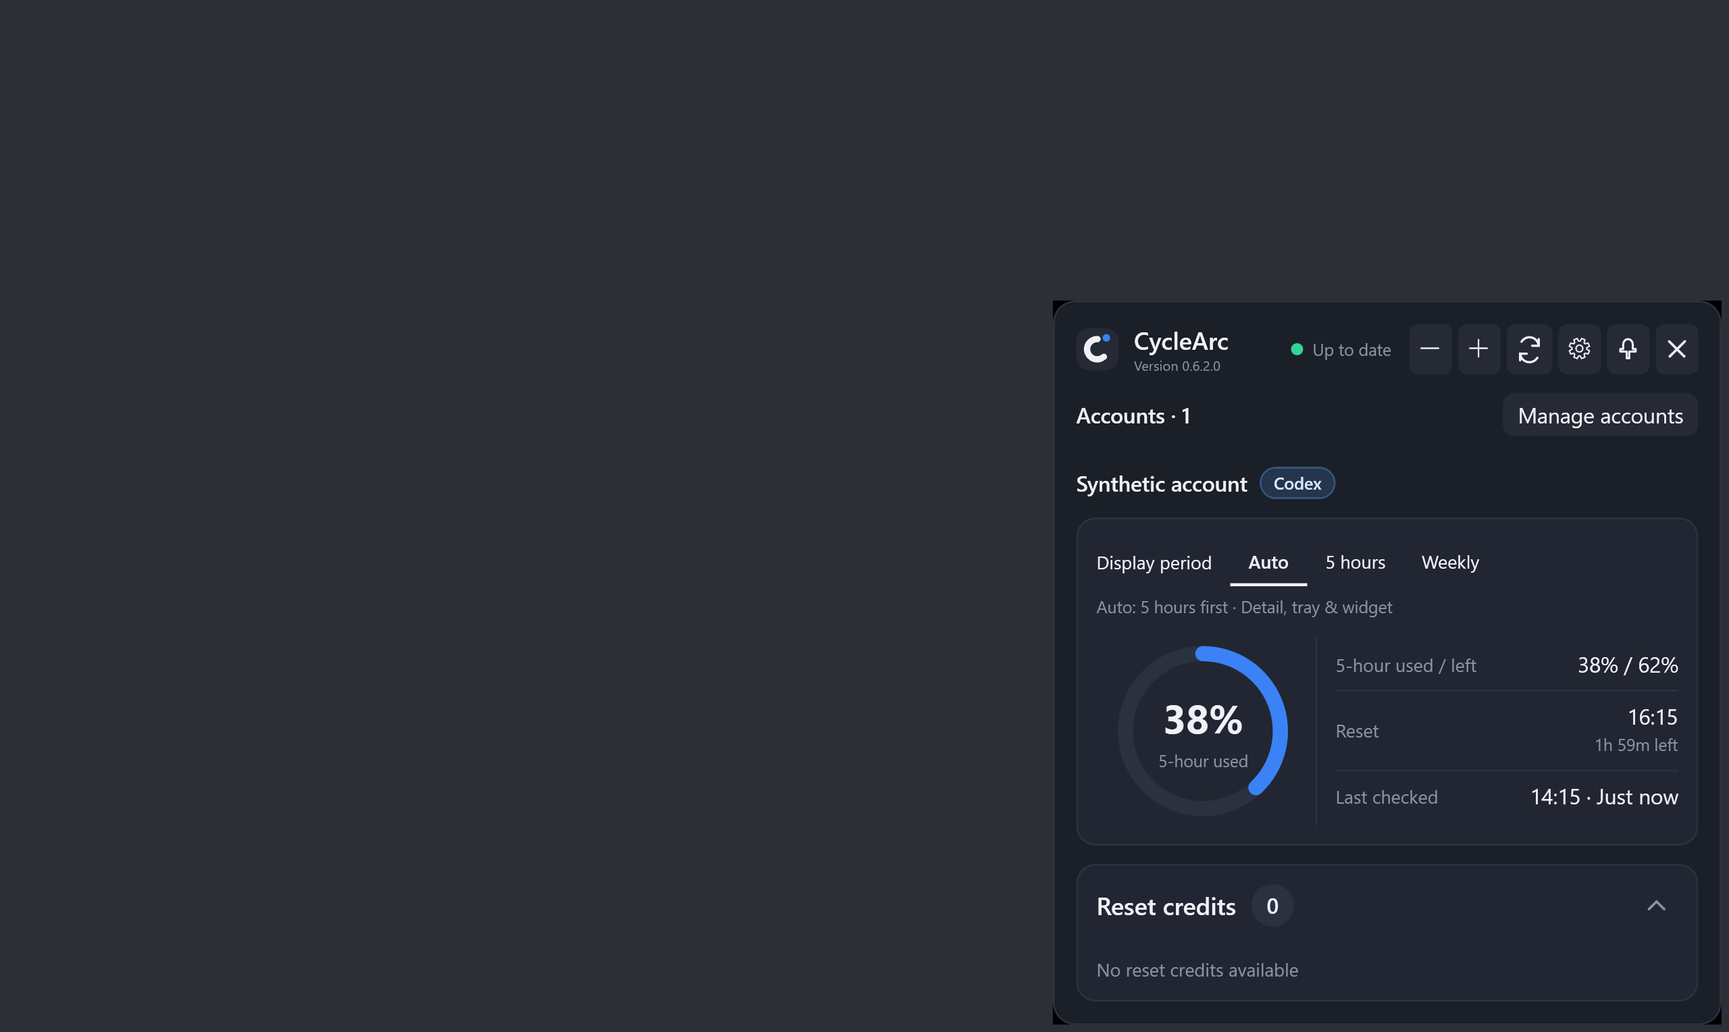
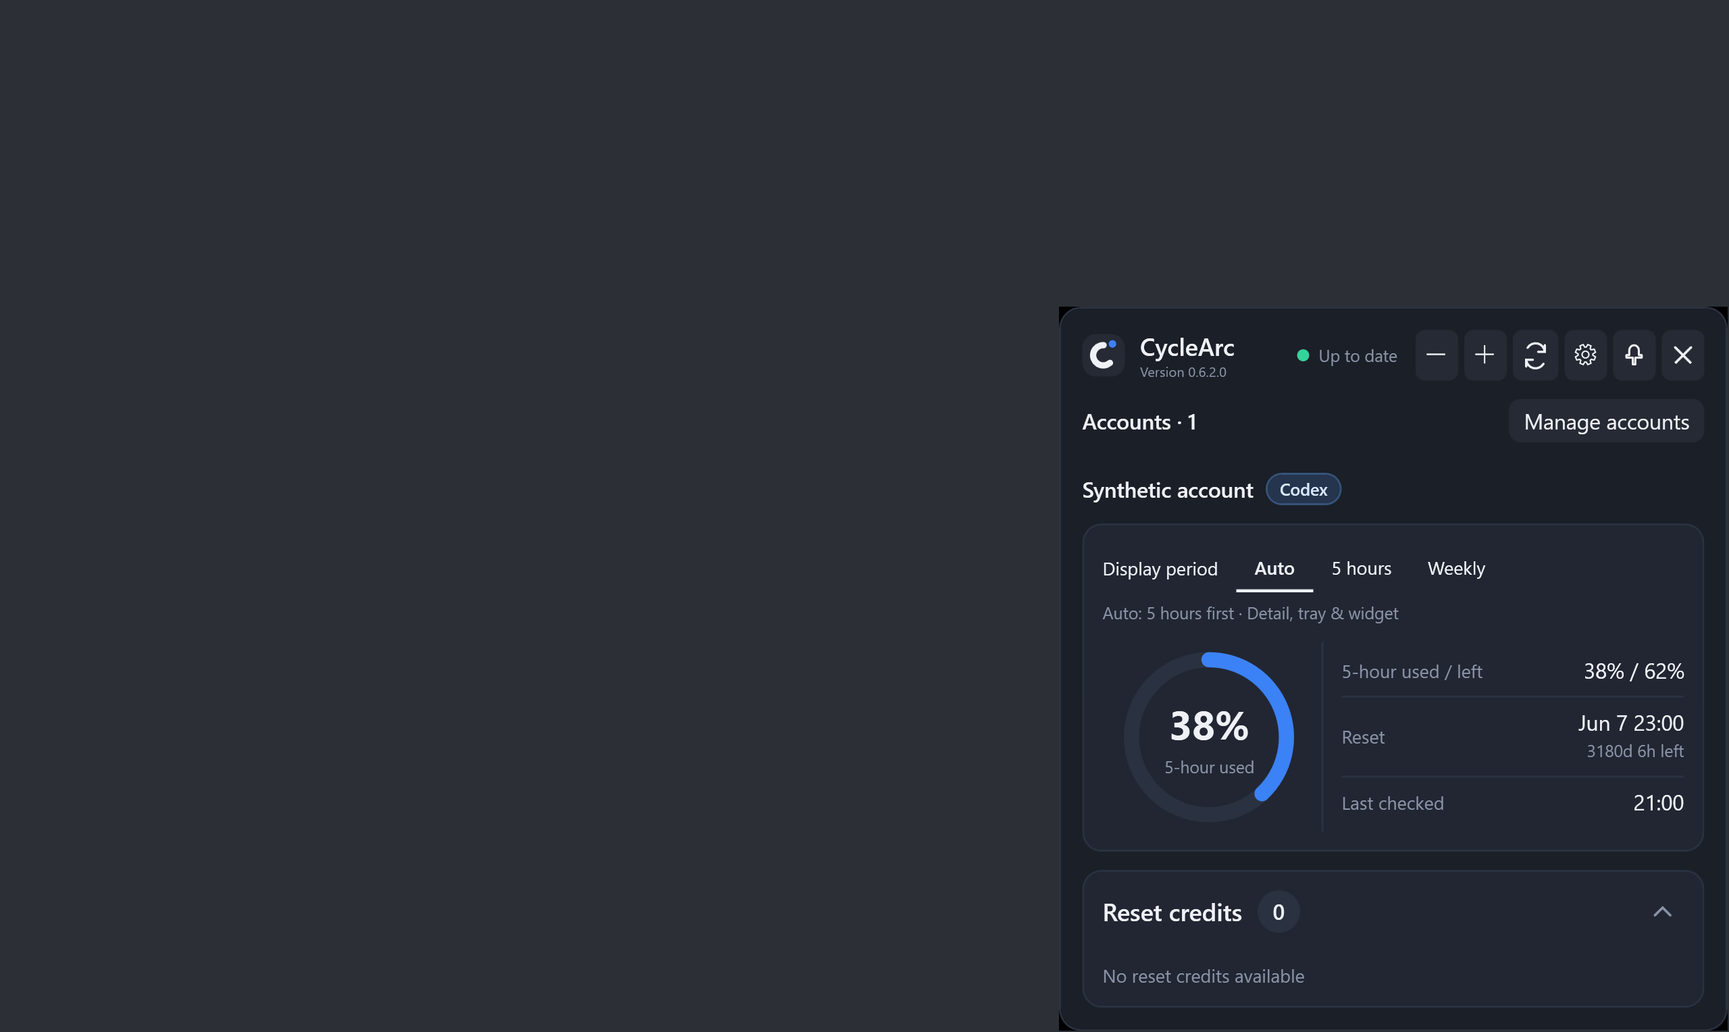
Reduce snapped window inset to 2 DIP

diff --git a/tests/CycleArc.Tests/WindowEdgeSnapTests.cs b/tests/CycleArc.Tests/WindowEdgeSnapTests.cs
@@ -26,21 +26,25 @@ public class WindowEdgeSnapTests
             WindowEdgeSnap.Detect(right, bottom, width, height, Work));
     }
 
-    [Fact]
-    public void ThresholdIsInclusiveAndOutsideThresholdIsFree()
+    [Theory]
+    [InlineData(11.999, true)]
+    [InlineData(12, true)]
+    [InlineData(12.001, false)]
+    public void ThresholdIsInclusiveAndOutsideThresholdIsFree(double distance, bool attaches)
     {
-        var width = 320d;
-        var height = 180d;
-        var target = Work.X + WindowEdgeSnap.MarginDip;
-
-        Assert.Equal(HorizontalEdgeAnchor.Left,
-            WindowEdgeSnap.Detect(target + WindowEdgeSnap.ThresholdDip, 400, width, height, Work).Horizontal);
-        Assert.Equal(HorizontalEdgeAnchor.None,
-            WindowEdgeSnap.Detect(target + WindowEdgeSnap.ThresholdDip + 0.0001, 400, width, height, Work).Horizontal);
-        Assert.Equal(VerticalEdgeAnchor.Top,
-            WindowEdgeSnap.Detect(400, Work.Y + WindowEdgeSnap.MarginDip - WindowEdgeSnap.ThresholdDip, width, height, Work).Vertical);
-        Assert.Equal(VerticalEdgeAnchor.None,
-            WindowEdgeSnap.Detect(400, Work.Y + WindowEdgeSnap.MarginDip - WindowEdgeSnap.ThresholdDip - 0.0001, width, height, Work).Vertical);
+        // Independent policy expectations: 2-DIP targets and a 12-DIP threshold.
+        Assert.Equal(12, WindowEdgeSnap.ThresholdDip);
+        foreach (var direction in new[] { -1, 1 })
+        {
+            Assert.Equal(attaches ? HorizontalEdgeAnchor.Left : HorizontalEdgeAnchor.None,
+                WindowEdgeSnap.Detect(Work.X + 2 + direction * distance, 400, 320, 180, Work).Horizontal);
+            Assert.Equal(attaches ? HorizontalEdgeAnchor.Right : HorizontalEdgeAnchor.None,
+                WindowEdgeSnap.Detect(Work.Right - 2 - 320 + direction * distance, 400, 320, 180, Work).Horizontal);
+            Assert.Equal(attaches ? VerticalEdgeAnchor.Top : VerticalEdgeAnchor.None,
+                WindowEdgeSnap.Detect(0, Work.Y + 2 + direction * distance, 320, 180, Work).Vertical);
+            Assert.Equal(attaches ? VerticalEdgeAnchor.Bottom : VerticalEdgeAnchor.None,
+                WindowEdgeSnap.Detect(0, Work.Bottom - 2 - 180 + direction * distance, 320, 180, Work).Vertical);
+        }
     }
 
     [Fact]
@@ -59,7 +63,7 @@ public class WindowEdgeSnapTests
             WindowEdgeSnap.Detect(400, bottomTarget + 1, width, height, Work).Vertical);
 
         // The two candidate targets can both be inside the threshold only when the
-        // window nearly fills the work area, leaving the two 8 DIP margins between
+        // window nearly fills the work area, leaving the two 2 DIP margins between
         // them. Use that boundary shape to exercise the deterministic tie rule.
         var tieWidth = Work.Width - (int)(WindowEdgeSnap.MarginDip * 2);
         var tieHeight = Work.Height - (int)(WindowEdgeSnap.MarginDip * 2);
@@ -163,8 +167,8 @@ public class WindowEdgeSnapTests
         var work = new ScreenRect(100, 100, 20, 20);
         var placed = WindowEdgeSnap.Place(double.NaN, double.PositiveInfinity, 10, 10, work, default);
 
-        Assert.Equal(work.X + WindowEdgeSnap.MarginDip, placed.Left);
-        Assert.Equal(work.Y + WindowEdgeSnap.MarginDip, placed.Top);
+        Assert.Equal(work.X + 8, placed.Left);
+        Assert.Equal(work.Y + 8, placed.Top);
         Assert.True(double.IsFinite(placed.Left));
         Assert.True(double.IsFinite(placed.Top));
     }
@@ -181,6 +185,27 @@ public class WindowEdgeSnapTests
         Assert.True(placed.Top + 180 <= Work.Bottom - WindowEdgeSnap.MarginDip);
     }
 
+    [Fact]
+    public void SavedEightDipAttachmentRestoresAtTwoDipButFreePositionDoesNotMove()
+    {
+        var oldPosition = (Left: Work.Right - 8d - 320, Top: Work.Bottom - 8d - 180);
+        var anchors = new WindowEdgeAnchors(HorizontalEdgeAnchor.Right, VerticalEdgeAnchor.Bottom);
+        Assert.Equal((Work.Right - 2d - 320, Work.Bottom - 2d - 180),
+            WindowEdgeSnap.Place(oldPosition.Left, oldPosition.Top, 320, 180, Work, anchors));
+        Assert.Equal(oldPosition,
+            WindowEdgeSnap.Place(oldPosition.Left, oldPosition.Top, 320, 180, Work, default));
+    }
+
+    [Fact]
+    public void OversizeAndInvalidUnattachedPositionsKeepTheExistingEightDipRecovery()
+    {
+        var work = new ScreenRect(0, 0, 800, 600);
+        var anchors = new WindowEdgeAnchors(HorizontalEdgeAnchor.Right, VerticalEdgeAnchor.Bottom);
+        Assert.Equal((8d, 8d), WindowEdgeSnap.Place(-100, -100, 900, 700, work, anchors));
+        Assert.Equal((8d, 8d), WindowEdgeSnap.Place(double.NaN, double.NaN, 900, 700, work, default));
+        Assert.Equal((592d, 392d), WindowEdgeSnap.Place(900, 700, 200, 200, work, default));
+    }
+
     [Theory]
     [InlineData(-1080, 48, 1080, 1872)] // portrait, top taskbar
     [InlineData(-1032, 0, 1032, 1920)] // portrait, left taskbar
@@ -194,8 +219,8 @@ public class WindowEdgeSnapTests
         {
             var anchors = new WindowEdgeAnchors(horizontal, vertical);
             var placed = WindowEdgeSnap.Place(x + 200, y + 200, 320, 280, work, anchors);
-            Assert.Equal(horizontal == HorizontalEdgeAnchor.Left ? x + 8 : work.Right - 8 - 320, placed.Left);
-            Assert.Equal(vertical == VerticalEdgeAnchor.Top ? y + 8 : work.Bottom - 8 - 280, placed.Top);
+            Assert.Equal(horizontal == HorizontalEdgeAnchor.Left ? x + 2 : work.Right - 2 - 320, placed.Left);
+            Assert.Equal(vertical == VerticalEdgeAnchor.Top ? y + 2 : work.Bottom - 2 - 280, placed.Top);
             Assert.Equal(anchors, WindowEdgeSnap.Detect(placed.Left, placed.Top, 320, 280, work));
         }
     }
@@ -212,15 +237,15 @@ public class WindowEdgeSnapTests
         {
             var width = 320 * zoom;
             var height = 280 * zoom;
-            var physicalLeft = (work.Right - 8 - width - 11.99) * osScale;
-            var physicalTop = (work.Bottom - 8 - height) * osScale;
+            var physicalLeft = (work.Right - 2 - width - 11.99) * osScale;
+            var physicalTop = (work.Bottom - 2 - height) * osScale;
             var anchors = WindowEdgeSnap.Detect(physicalLeft / osScale, physicalTop / osScale,
                 width, height, work);
             Assert.Equal(new WindowEdgeAnchors(HorizontalEdgeAnchor.Right, VerticalEdgeAnchor.Bottom), anchors);
             var placed = WindowEdgeSnap.Place(physicalLeft / osScale, physicalTop / osScale,
                 width, height, work, anchors);
-            Assert.Equal(8 * osScale, (work.Right - placed.Left - width) * osScale, 6);
-            Assert.Equal(8 * osScale, (work.Bottom - placed.Top - height) * osScale, 6);
+            Assert.Equal(2 * osScale, (work.Right - placed.Left - width) * osScale, 6);
+            Assert.Equal(2 * osScale, (work.Bottom - placed.Top - height) * osScale, 6);
         }
     }
 }

diff --git a/tests/CycleArc.UiSmoke/NativeEdgeSnapChecks.cs b/tests/CycleArc.UiSmoke/NativeEdgeSnapChecks.cs
@@ -22,7 +22,7 @@ internal static class NativeEdgeSnapChecks
         Directory.CreateDirectory(directory);
         UiText.SetLanguage(UiLanguage.English);
         typeof(App).GetMethod("ApplyTheme", BindingFlags.Static | BindingFlags.NonPublic)!.Invoke(null, [AppTheme.Dark]);
-        var now = DateTimeOffset.Now;
+        var now = new DateTimeOffset(2035, 6, 7, 12, 0, 0, TimeSpan.Zero);
         var snapshot = new CodexQuotaSnapshot(CodexQuotaStatus.Available, "pro", now, now,
             null, null, 0, [new("five", 38, 300, now.AddHours(2), CodexWindowKind.FiveHour)], null);
         var account = WidgetFixture.Synthetic("edge-native", "Synthetic account", snapshot);
@@ -74,8 +74,9 @@ internal static class NativeEdgeSnapChecks
                     var dpi = VisualTreeHelper.GetDpi(window);
                     var initial = Bounds(window);
                     var start = HeaderPoint(window);
-                    var targetLeft = work.Right - initial.Width - (8 + 6) * dpi.DpiScaleX;
-                    var targetTop = work.Bottom - initial.Height - (8 + 6) * dpi.DpiScaleY;
+                    var targetLeft = work.Right - initial.Width - (2 + 6) * dpi.DpiScaleX;
+                    var targetTop = work.Bottom - initial.Height - (2 + 6) * dpi.DpiScaleY;
+                    Console.WriteLine($"Native drop {kind}: initial={initial.Left},{initial.Top},{initial.Width},{initial.Height}; pointer={start}; target={targetLeft},{targetTop}; DPI={dpi.DpiScaleX}/{dpi.DpiScaleY}");
                     EdgeSnapNativeInput.Drag(window, start,
                         new Point(start.X + targetLeft - initial.Left, start.Y + targetTop - initial.Top));
                     AssertAttached(window, work, "native release");
@@ -106,7 +107,7 @@ internal static class NativeEdgeSnapChecks
                     Check(Bounds(window).Left < before.Left, kind + " native Shift drag did not move.");
                     if (window is FlyoutWindow popup)
                         Check(!popup.Pinned && !popup.Topmost, "Snapping changed flyout pin/topmost state.");
-                    lines.Add($"PASS {kind} {screen.DeviceName}: physical work={work}, OS DPI={dpi.DpiScaleX * 100:0}/{dpi.DpiScaleY * 100:0}%; native drag/release, header click, 100/150/80% header-button zoom, passive size/content update without focus theft, pixel/anchor recreation, Shift detach. No monitor geometry was injected.");
+                    lines.Add($"PASS {kind} {screen.DeviceName}: physical work={work}, OS DPI={dpi.DpiScaleX * 100:0}/{dpi.DpiScaleY * 100:0}%; native drag/release, header click, 100/150/80% header-button zoom, passive size/content update without focus theft, legacy 8-DIP pixel/anchor recreation at 2 DIP, Shift detach. No monitor geometry was injected.");
                 }
                 finally { window.Close(); }
             }
@@ -123,11 +124,18 @@ internal static class NativeEdgeSnapChecks
             Status = CodexQuotaStatus.Stale, TechnicalDetail = "Synthetic refresh failure for height verification."
         } };
         var anchors = Anchors(original);
+        // Recreate an already attached window whose saved coordinates still have the old
+        // 8-DIP inset. The current policy must place it 6 DIP closer, on the same monitor.
+        var dpi = VisualTreeHelper.GetDpi(original);
+        var oldPixelLeft = bounds.Left - (int)Math.Round(6 * dpi.DpiScaleX);
+        var oldPixelTop = bounds.Top - (int)Math.Round(6 * dpi.DpiScaleY);
         var settings = new AppSettings
         {
-            WidgetLeft = original.Left, WidgetTop = original.Top, WidgetPixelLeft = bounds.Left, WidgetPixelTop = bounds.Top,
+            WidgetLeft = original.Left - 6, WidgetTop = original.Top - 6,
+            WidgetPixelLeft = oldPixelLeft, WidgetPixelTop = oldPixelTop,
             WidgetHorizontalAnchor = anchors.Horizontal, WidgetVerticalAnchor = anchors.Vertical, WidgetZoomPercent = Zoom(original),
-            FlyoutLeft = original.Left, FlyoutTop = original.Top, FlyoutPixelLeft = bounds.Left, FlyoutPixelTop = bounds.Top,
+            FlyoutLeft = original.Left - 6, FlyoutTop = original.Top - 6,
+            FlyoutPixelLeft = oldPixelLeft, FlyoutPixelTop = oldPixelTop,
             FlyoutHorizontalAnchor = anchors.Horizontal, FlyoutVerticalAnchor = anchors.Vertical, FlyoutZoomPercent = Zoom(original),
             FlyoutPositionConfigured = true
         };
@@ -224,8 +232,8 @@ internal static class NativeEdgeSnapChecks
         var dpi = VisualTreeHelper.GetDpi(window);
         Check(anchors == new WindowEdgeAnchors(HorizontalEdgeAnchor.Right, VerticalEdgeAnchor.Bottom),
             $"{window.GetType().Name} {stage}: expected right/bottom, got {anchors}; bounds={bounds.Left},{bounds.Top},{bounds.Right},{bounds.Bottom}, work={work}.");
-        Check(Math.Abs(work.Right - bounds.Right - 8 * dpi.DpiScaleX) <= 2
-            && Math.Abs(work.Bottom - bounds.Bottom - 8 * dpi.DpiScaleY) <= 2,
+        Check(Math.Abs(work.Right - bounds.Right - 2 * dpi.DpiScaleX) <= 2
+            && Math.Abs(work.Bottom - bounds.Bottom - 2 * dpi.DpiScaleY) <= 2,
             $"{window.GetType().Name} {stage}: wrong native inset; right={work.Right - bounds.Right}, bottom={work.Bottom - bounds.Bottom}, DPI={dpi.DpiScaleX}/{dpi.DpiScaleY}.");
     }
 
@@ -248,6 +256,15 @@ internal static class NativeEdgeSnapChecks
             graphics.DrawImageUnscaled(capture, bounds.Left - work.Left, bounds.Top - work.Top);
         }
         canvas.Save(path, System.Drawing.Imaging.ImageFormat.Png);
+        // Record actual HWND geometry so before/after captures can verify that only
+        // the outside position changed, with equal window sizes at each app zoom.
+        var dpi = VisualTreeHelper.GetDpi(window);
+        File.WriteAllText(Path.ChangeExtension(path, ".json"), System.Text.Json.JsonSerializer.Serialize(new
+        {
+            bounds.Left, bounds.Top, bounds.Width, bounds.Height,
+            WorkLeft = work.Left, WorkTop = work.Top, WorkRight = work.Right, WorkBottom = work.Bottom,
+            dpi.DpiScaleX, dpi.DpiScaleY, Zoom = Zoom(window)
+        }));
     }
 
     private static NativeRect Bounds(Window window)

diff --git a/src/CycleArc.Core/Codex/WindowEdgeSnap.cs b/src/CycleArc.Core/Codex/WindowEdgeSnap.cs
@@ -32,8 +32,10 @@ public readonly record struct WindowEdgeAnchors(
 
 public static class WindowEdgeSnap
 {
-    public const double MarginDip = 8;
+    public const double MarginDip = 2;
     public const double ThresholdDip = 12;
+    // Invalid-coordinate recovery retains its existing safety inset, independent of snapping.
+    private const double RecoveryMarginDip = 8;
 
     public static WindowEdgeAnchors Detect(
         double left,
@@ -200,8 +202,8 @@ public static class WindowEdgeSnap
 
     private static double ClampRecoveredAxis(double origin, double size, int workOrigin, int workLength)
     {
-        var min = workOrigin + MarginDip;
-        var max = workOrigin + (double)workLength - size - MarginDip;
+        var min = workOrigin + RecoveryMarginDip;
+        var max = workOrigin + (double)workLength - size - RecoveryMarginDip;
         return max < min ? min : Math.Clamp(FiniteOrZero(origin), min, max);
     }
 

diff --git a/tests/CycleArc.UiSmoke/FlyoutEdgeSnapChecks.cs b/tests/CycleArc.UiSmoke/FlyoutEdgeSnapChecks.cs
@@ -156,8 +156,8 @@ internal static class FlyoutEdgeSnapChecks
                 flyout.UpdateLayout();
                 Pump();
                 var area = CurrentWorkArea(flyout);
-                Require(Math.Abs(flyout.Left + flyout.Width - (area.Right - 8)) <= 1
-                    && Math.Abs(flyout.Top + flyout.ActualHeight - (area.Bottom - 8)) <= 1,
+                Require(Math.Abs(flyout.Left + flyout.Width - (area.Right - 2)) <= 1
+                    && Math.Abs(flyout.Top + flyout.ActualHeight - (area.Bottom - 2)) <= 1,
                     $"Account count {count} changed the attached margin.");
             }
             // Restore the original binding shape for the recreation comparison below.

diff --git a/docs/VALIDATION.md b/docs/VALIDATION.md
@@ -2253,3 +2253,46 @@ remaining-quota count. Subsequent 13:37–13:38 retries failed at page preparati
   portrait monitor, or taskbars placed on other edges. Those geometry cases use injected
   tests. No actual account login/quota/model request, installation/update/removal, remote CI,
   push, version change, tag or release was used for this work.
+
+
+## Screen-edge inset reduced to 2 DIP, 2026-09-22
+
+- Baseline: `c08558d675b3cc5120c6be9bb492930bef5d0783`. `WindowEdgeSnap.MarginDip`
+  is now 2, while `ThresholdDip` remains 12. Both windows already apply anchored placement
+  after generic recovery, so their WPF drag, zoom, sizing and restore code needs no change.
+  Internal layout, fonts, rings, account sizing, settings and persisted anchor formats are unchanged.
+- General recovery remains 8 DIP. In particular, `ClampRecoveredAxis` previously reused the
+  snap constant for non-finite input; it now has a separate private 8-DIP recovery constant.
+  `FlyoutPlacement` safety clamping and `WidgetGridLayout` wrapping clearance are unchanged.
+- Focused tests passed: 38 coordinate/settings/placement tests, then production `--edge-snap`
+  checks for both windows. Literal 2-DIP expectations independently pin every corner and
+  supplied work-area inset; both directions around each edge test 11.999/12/12.001 DIP.
+  Old 8-DIP attached coordinates restore at 2 DIP, while the same unanchored position stays
+  unchanged. Invalid/oversized safety recovery, independent free axes, Shift and disabled
+  snapping retain their previous behavior.
+- Native `--edge-snap-native` passed on actual primary `(0,0,2560,1528)` work area at
+  150% OS DPI and secondary `(-1920,0,1920,1032)` at 100%. It covers native drop/release,
+  header clicks, 80/100/150% app zoom, passive height/status changes without focus theft,
+  and recreation from saved pixel/DIP coordinates still carrying the old 8-DIP inset.
+  Both windows retain their anchors and the new inset; Shift detaches as before.
+- Twelve before/after native capture pairs use identical fixed synthetic snapshots and
+  matching app zoom. Every HWND width/height is unchanged; each moves exactly 6px at
+  100% OS DPI or 9px at 150%. Measured gaps are 1-2px at 100% and 2-4px at 150%, within
+  the existing 1px native-coordinate rounding of the 2/3px targets. After aligning window
+  origins for pixel comparison, only the reset-countdown hour digit differs (the real clock
+  crossed an hour boundary); other internal pixels are identical. Geometry and full-size
+  captures are under `artifacts/snap-margin-2dip`, including `comparison.json`.
+- The first pre-change native attempt did not reach the requested drop coordinates and
+  failed its anchor assertion. A rerun with start/target/DPI diagnostics passed, as did the
+  post-change run. Its cause was not established; no input logic or timeout was changed.
+- Only the four current edge-snap previews were refreshed; two 100% baseline captures were
+  added. The previous 8-DIP validation record above remains historical evidence.
+- Final local gate passed in 5m10s: `pwsh -NoProfile -File ./dev-run.ps1 -NoLaunch
+  -TestResultsDirectory artifacts/snap-margin-2dip/test-results`. All 1,800 unit tests,
+  complete WPF checks (including input/focus, 151 layout, 531 zoom and 180 DPI/layout cases),
+  test-flavour build, single-file publish, built/published receiver checks, installer packaging
+  and isolated portable apply/rollback verification passed. Log: `artifacts/snap-margin-2dip/full-gate.log`.
+- Not run: physical 200% OS DPI, monitor removal/rotation, or taskbar relocation, because
+  the connected desktop remains at its existing 100/150% configuration. Other DPI/work-area
+  cases use injected arithmetic/layout checks. No user installation, account or developer-tool
+  configuration was changed; no push, CI run, merge, version change, tag or release was performed.

diff --git a/docs/images/README.md b/docs/images/README.md
@@ -9,7 +9,8 @@ reset times and credits illustrate the layout; they do not promise specific plan
 | --- | --- |
 | `updates-{en,ko}-{dark,light}.png` | Production update window showing a sample 0.6.0 → 0.6.1 upgrade with the release's widget and installer highlights; download and restart require separate approval |
 | `overview-dark.png`, `overview-light.png`, `settings.png`, `widget.png` | English single-account popup, settings, and the multi-account widget (three synthetic accounts in one row) |
-| `edge-snap-{widget,flyout}-{100,150}.png` | Native synthetic widget/detail windows at 100% and 150% app zoom, attached right/bottom on the 150%-DPI primary monitor; measured work-area surround is neutral and excludes other apps |
+| `edge-snap-{widget,flyout}-{100,150}.png` | Native synthetic widget/detail windows at 100% and 150% app zoom, attached right/bottom at the current 2-DIP inset on the 150%-DPI primary monitor; measured work-area surround is neutral and excludes other apps |
+| `edge-snap-margin-before-{widget,flyout}-100.png` | Historical 8-DIP baseline from `c08558d`, with the same fixed synthetic data and 100% app zoom as the current edge-snap images |
 | `accounts-overview-{en,ko}-{dark,light}.png` | Two ready Codex accounts, with Work / 업무용 selected; the unconnected Claude profile is absent from the cards and counts |
 | `accounts-manage-{en,ko}-{dark,light}.png` | All three registered profiles, including unconnected Research / 실험용 Claude, with connection, nickname and saved-order controls |
 | `claude-waiting-{en,ko}-{dark,light}.png` | Connected Research before its first sample, with unknown shared subscription limits, Awaiting usage and Open usage page |
@@ -54,6 +55,15 @@ drives actual mouse drags and header clicks on the connected monitors. It restor
 uses synthetic accounts, and captures only those HWNDs with `PrintWindow`. Each capture is placed
 at its measured physical coordinates on a neutral work-area background; other applications are
 not captured. This hardware/input check is opt-in and is not part of the unattended gate.
+
+The 2-DIP comparison uses the fixed synthetic timestamp 2035-06-07 in both runs. Reset
+countdowns still use the current clock, so their hour digit can differ between captures.
+The PNG sidecars record HWND size/position, work area, OS DPI and app zoom. Across the
+12 before/after pairs (two windows, two monitors, 80/100/150% zoom), sizes are identical;
+positions move 6 physical pixels at 100% OS DPI and 9 pixels at 150%. Only the reset
+countdown hour digit differs inside the window. Local paired evidence and geometry are
+in `artifacts/snap-margin-2dip/{before,after}` and `comparison.json`; only affected current
+edge-snap previews and the two 100% baseline images are checked in.
 
 The Claude previews use those same profiles with Research connected and selected, so all three
 accounts appear. The waiting view has no quota yet. The server preview supplies synthetic

diff --git a/README.md b/README.md
@@ -250,7 +250,7 @@ Usage comes from the Desktop live profile/usage check when available, then the o
 | Widget header buttons | Resize the widget, refresh, open Settings, or hide it without exiting CycleArc |
 | Right-click the widget | Open its menu, including Close widget |
 
-Drop the widget or detail popup near a screen edge to align it with an 8-DIP inset, keeping its size. Hold **Shift** when releasing a drag to skip snapping for that move. Attached edges keep their inset when you zoom or the content changes. Turn this off in **Settings → General → Snap windows to screen edges**.
+Drop the widget or detail popup near a screen edge to align it with a 2-DIP inset, keeping its size. Hold **Shift** when releasing a drag to skip snapping for that move. Attached edges keep their inset when you zoom or the content changes. Turn this off in **Settings → General → Snap windows to screen edges**.
 
 The zoom shortcuts also support the numeric keypad. The detail card and the widget keep their own size: a shortcut or button changes only the window it was aimed at, and both sizes are saved across restarts. The tray menu resets either one: **Reset size (100%)** for the detail card, **Reset widget size (100%)** for the widget. Widget position can be reset from **Settings → Widget**; saving moves it to the primary screen and recreates its window so a missing widget can recover even when Windows reports it as visible.
 
